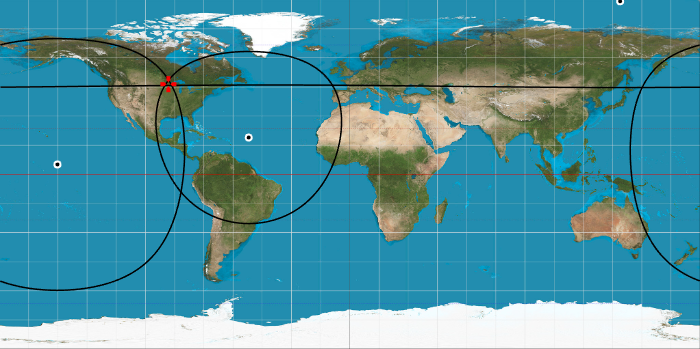
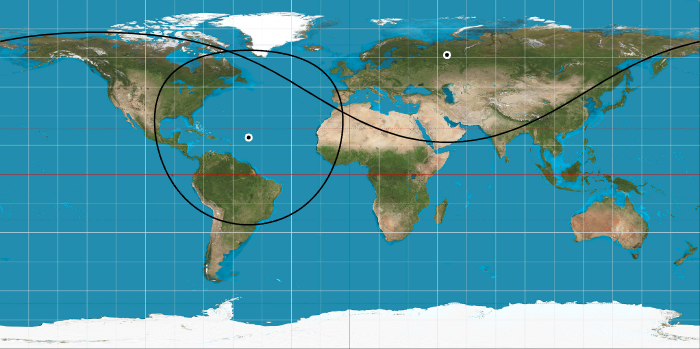
wip

diff --git a/celnav-stereographic.html b/celnav-stereographic.html
@@ -1,63 +1,85 @@
 <html>
-  <head>
-    <meta name="viewport" content="width=device-width, initial-scale=1.0, maximum-scale=1.0, user-scalable=0">
-    <style>
-      body {
-        margin: 0px;
-        background-color: #ddd;
-      }
-      #main {
-        padding: 20px 40px;
-        background-color: #eee;
-        color: #444;
-      }
-      div.media-wrapper {
-        text-align: center;
-        margin: 40px 0px;
-      }
-      div.media-wrapper img {
-        max-width: 100%;
-      }
-      @media screen and (min-width: 1080px) {
-        #main {
-          margin: 20px auto;
-          width: 1000px;
-          box-shadow: -10px 10px 15px #ccc;
-        }
-      }
-      @media screen and (max-width: 1079px) {
-        #main {
-          min-width: 400px;
-          margin: 0px;
-          background-color: #ddd;
-        }
-      }
-      h1, h2 {
-        text-align: center;
-      }
-    </style>
-  </head>
-  <body>
-    <div id="main">
-      <h1>Celestial Navigation Fix on a Stereographic Projection</h1>
-      <h2>Introduction</h2>
-      <p>When doing a celestial navigation fix we get a circle of equal altitude for each celestial body we sight. Getting our position boils down to solving for where those circles intersect. Most common methods to find that intersection requires some hard work with sight reduction tables or a calculator, plus it requires you to have an estimated position of where you are.</p>
-      <p>However all that is only needed because we're trying to work with a small section of earth's surface that contains your actual position somewhere in it. If we could draw the full circles of equal altitude on a map to find their intersection then it would dismiss pretty much all the heavy math and the need for an estimated position.</p>
-      <p>There are a couple of problems with that, the main one being that a flat map of earth gets more distorted the larger the area it represents. Circles of equal altitude are most often thousands of miles wide, so they will always get very much distorted when fully drawn on a flat map. An easy solution is to simply use an actual sphere.</p>
-      <div class="media-wrapper">
-        <iframe width="560" height="315" src="https://www.youtube.com/embed/Bgt8zFHTRbw?si=CkfyLX515PY4RWWx" title="YouTube video player" frameborder="0" allow="accelerometer; autoplay; clipboard-write; encrypted-media; gyroscope; picture-in-picture; web-share" allowfullscreen></iframe>
-      </div>
-      <p>But there's another solution that still just relies on paper and drawing tools.</p>
-      <p>In the image below we have the same circles of the previous video but projected on an equirectangular protection of Earth. As you can see they're not really circles in this projection. Two of them have a weird shape that is a bit circular, but the other one is pretty much a straight line.</p>
-      <div class="media-wrapper">
-        <img src="equirectangular.png">
-      </div>
-      <p>Even though flat maps of the earth will always be distorted one way or another, there is actually a workaround. One of the projections, the Stereographic projection, have the curious property that projected circles are still circles. Their diameter will be distorted and they will no longer be centered in the same spot, but they'll still be circles nonetheless.</p>
-      <p>All we have to do then, is to figure out how to draw the projected circles and finally read the coordinates of their intersection.</p>
-      <h2>Plotting Longitudes</h2>
-      <p>The stereographic projection is one of the azimuthal projections, which means that the azimuths from the center point are preserved. By centering the projection in one of the poles the lines of longitude become all straight, coming out of the center radially. Placing the center of a protractor in the center of the projection will give you correct angles to establish any line of longitude.</p>
-      <h2>Plotting Latitudes</h2>
-      <p>Latitudes will be a little trickyer. In this projection latitudes get more stretched away from the center the further they are from it. But a simple solution is to simply print some adjustment scales for reference.</p>
-    </div>
-  </body>
+	<head>
+		<meta name="viewport" content="width=device-width, initial-scale=1.0, maximum-scale=1.0, user-scalable=0">
+		<style>
+			body {
+				font-family:'Segoe UI', Tahoma, Geneva, Verdana, sans-serif;
+				margin: 0px;
+				background-color: #ddd;
+			}
+			#main {
+				padding: 20px 40px;
+				background-color: #eee;
+				color: #444;
+			}
+			div.media-wrapper {
+				text-align: center;
+				margin: 40px 0px;
+			}
+			div.media-wrapper img {
+				max-width: 100%;
+			}
+			@media screen and (min-width: 1080px) {
+				#main {
+					margin: 20px auto;
+					width: 1000px;
+					box-shadow: -10px 10px 15px #ccc;
+				}
+			}
+			@media screen and (max-width: 1079px) {
+				#main {
+					min-width: 400px;
+					margin: 0px;
+					background-color: #ddd;
+				}
+			}
+			h1, h2 {
+				/* font-family: 'Gill Sans', 'Gill Sans MT', Calibri, 'Trebuchet MS', sans-serif; */
+				text-align: center;
+				font-variant: small-caps;
+			}
+			img {
+				border: 1px solid rgba(0, 0, 0, 0.2);
+			}
+		</style>
+	</head>
+	<body>
+		<div id="main">
+			<h1>Simple Method of Celestial Navigation Without Estimated Position</h1>
+			<hr>
+			<h2>Introduction</h2>
+			<p>When doing a celestial navigation fix we get a circle of equal altitude for each celestial body we sight. Getting our position boils down to solving for where those circles intersect. Most common methods to find that intersection requires some hard work with sight reduction tables or a calculator, plus it requires you to have an estimated position of where you are.</p>
+			<p>However all that is only needed because we're trying to work with a small section of Earth's surface that contains your actual position somewhere in it. If we could draw the full circles of equal altitude on a map to find their intersection then it would dismiss pretty much all the heavy math and the need for an estimated position.</p>
+			<p>There are a couple of problems with that, the main one being that a flat map of Earth gets more distorted the larger the area it represents. Circles of equal altitude are most often thousands of miles wide, so they will always get very much distorted when fully drawn on a flat map. An easy solution is to simply use an actual sphere.</p>
+			<p>But there's another solution that still only relies on paper and drawing tools.</p>
+			<p>The image below shows two circles of equal altitude projected on an equirectangular protection of Earth as black lines. As you can see they're not really circles in this projection.</p>
+			<div class="media-wrapper">
+				<img src="equirectangular.png">
+			</div>
+			<p>Even though flat maps of the Earth will always be distorted one way or another, there is actually a workaround. One of the projections, the Stereographic projection, have the curious property that projected circles are still circles. Their diameter will be distorted and they will no longer be centered in the same spot, but they'll still be circles nonetheless.</p>
+			<p>In the image below we have the same two circles but now on a stereographic projection.</p>
+			<div class="media-wrapper">
+				<img src="stereographic.png">
+			</div>
+			<p>Even though they are circular, two distortions can be noticed. Both those circles have the same radius of 45°, but when projected they end up with different sizes. Also, the black dots that mark the geographical position of the celestial bodies sighted are not where the circles are centered.</p>
+			<p>However even with these distortions these circles still pass over the correct coordinates within this projection. All we have to do then, is to figure out how to draw the projected circles and finally read the coordinates of their intersection.</p>
+			<h2>Plotting Longitudes</h2>
+			<p>The stereographic projection is one of the azimuthal projections, which means that the azimuths from the center point are preserved. By centering the projection in one of the poles the lines of longitude become all straight, coming out of the center radially. Placing the center of a protractor in the center of the projection will give you correct angles to establish any line of longitude.</p>
+			<h2>Plotting Latitudes</h2>
+			<p>Latitudes will be a little trickier. In this projection latitudes get more stretched away from the center the further they are from it. But a simple solution is to print some adjustment scales for reference.</p>
+		</div>
+	</body>
 </html>
+<!--
+	date: March 28th, 2022
+	zone: GMT-5
+	refraction: standard
+
+	star: dubhe
+	time: 14:20:51
+	alt: 45
+
+	star: arcturus
+	time: 00:22:33
+	alt: 45
+-->
